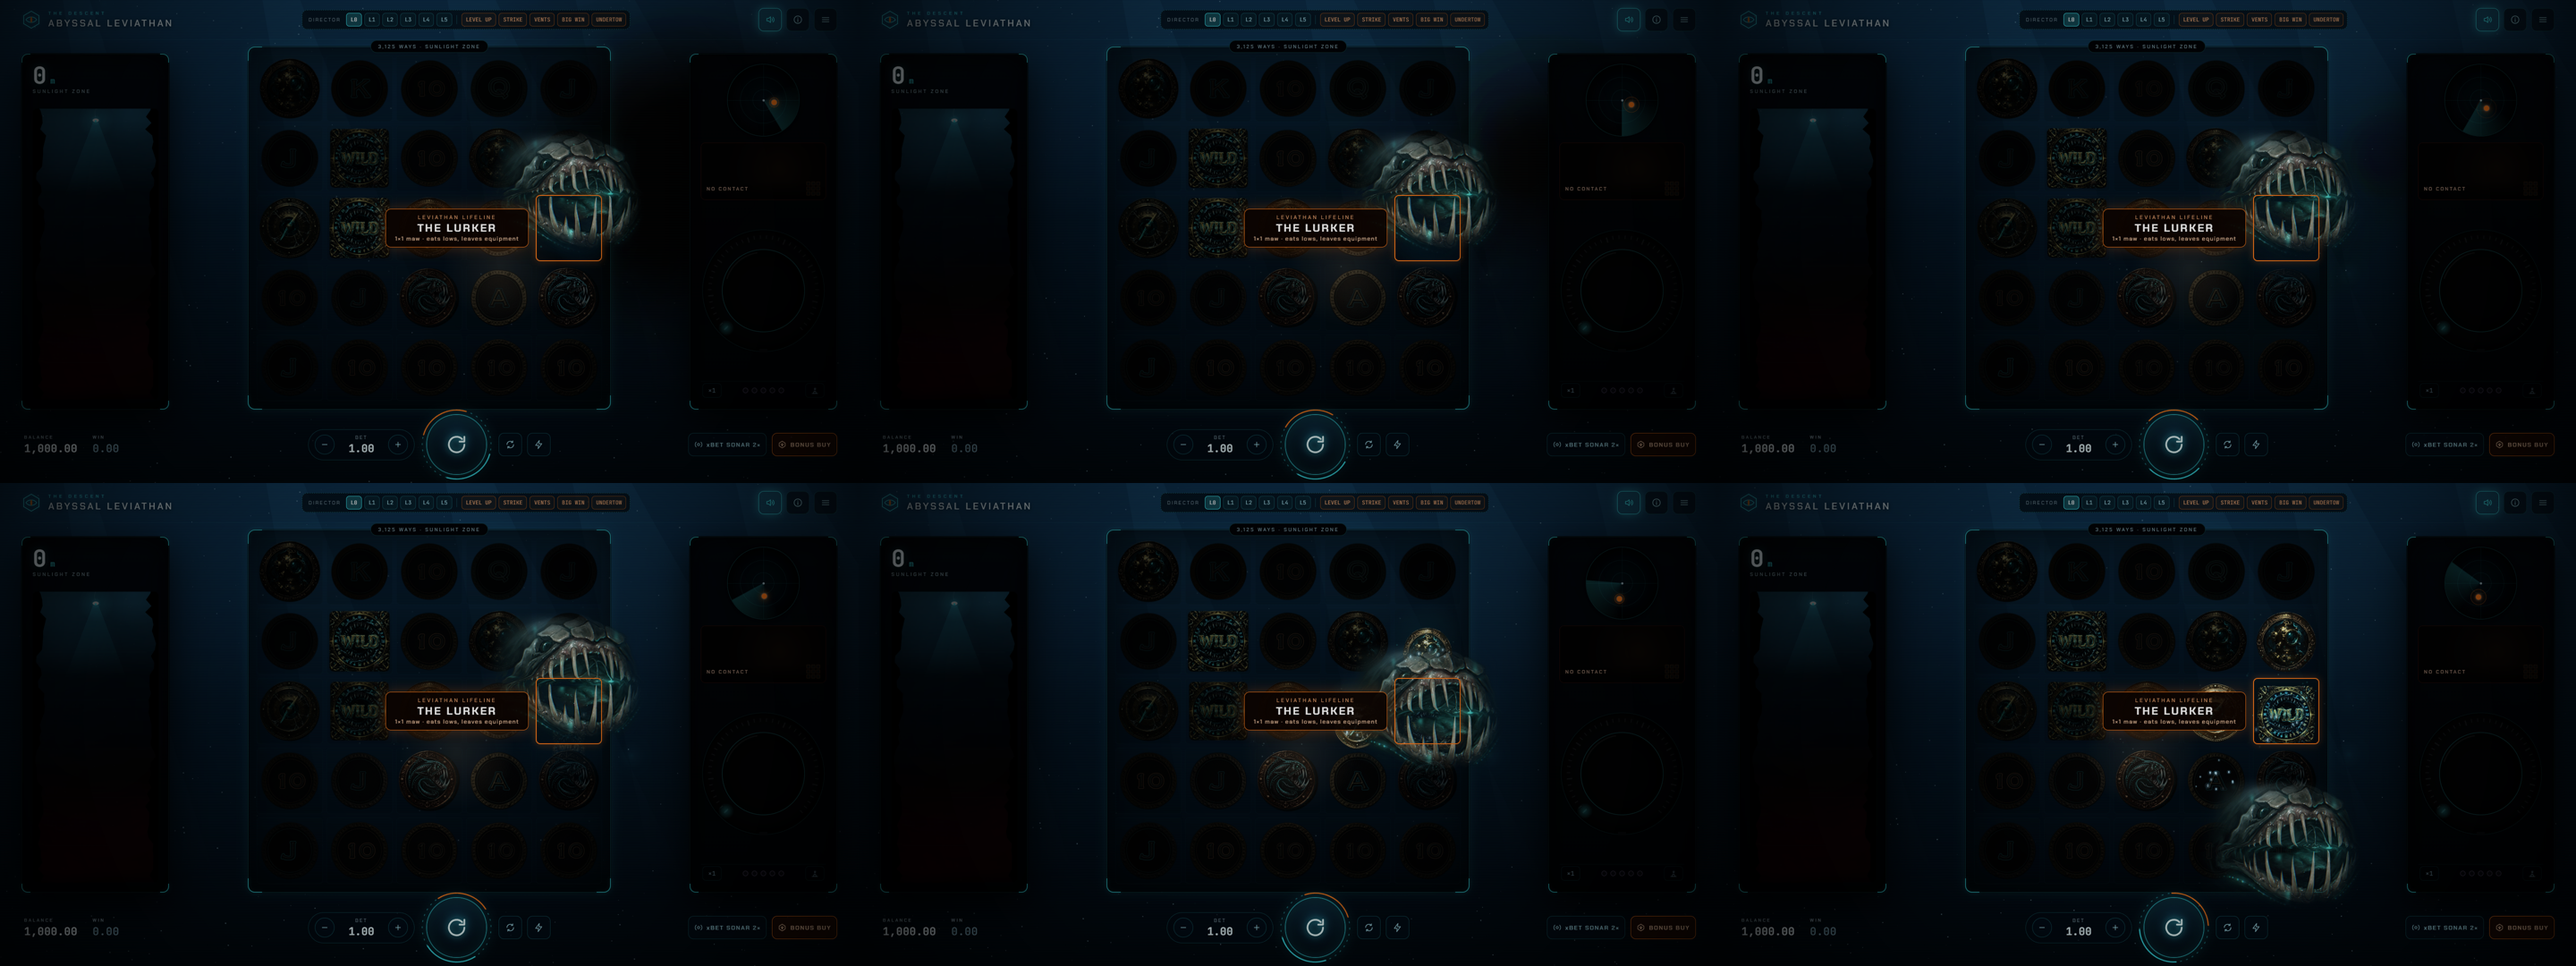
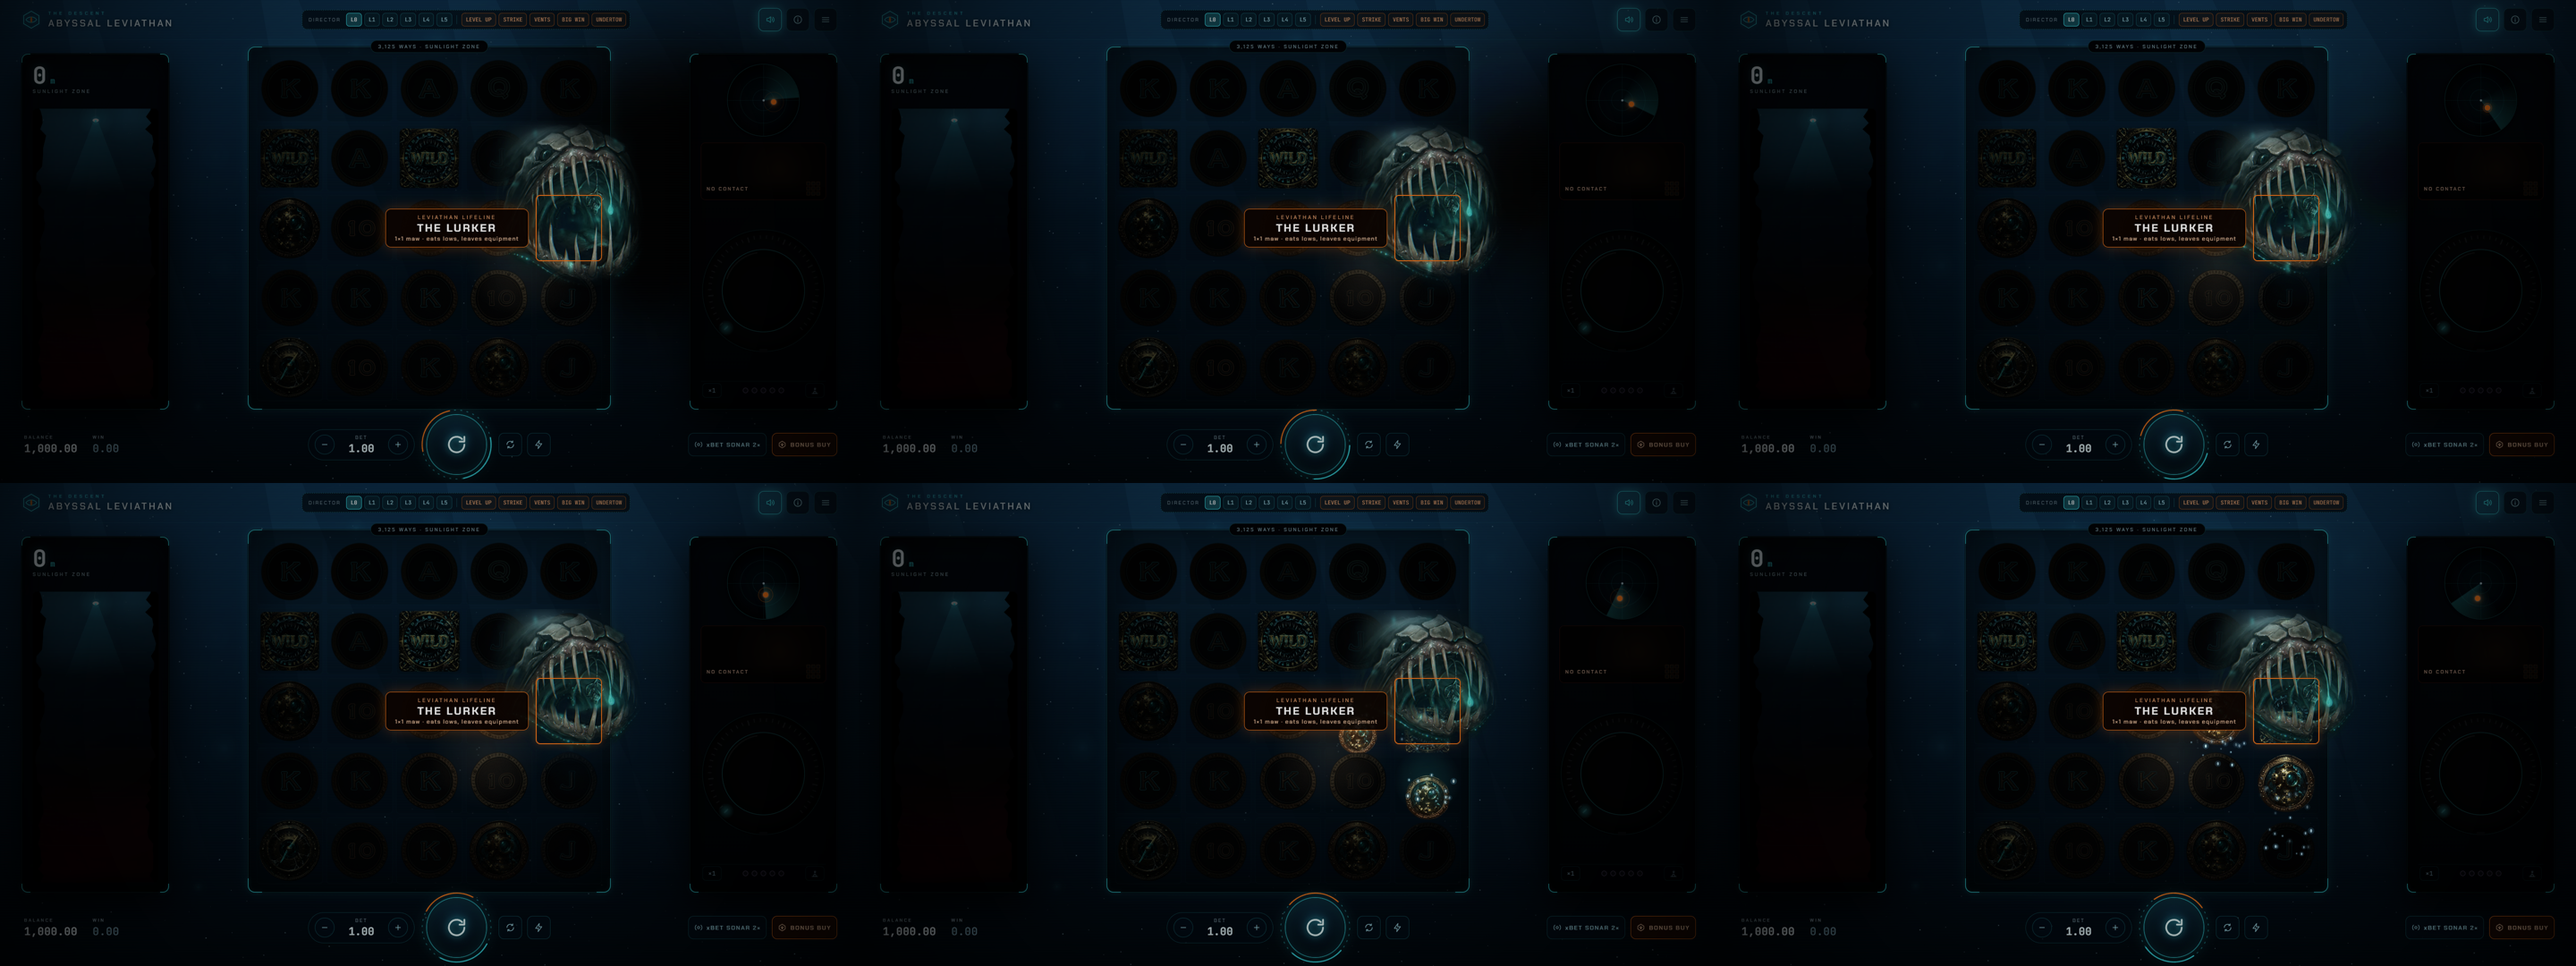
Flipbook mode for the hero layer: the chomp plays a frame sheet when one exists
hero.js samples a WebP sprite sheet (uSheet remap) from the chomp at its fps,
holds the last frame through the hit-stop, then drops as before; the mask slam
stays the fallback (?flipbook=0). flipbook_pack.py packs frames (<= 4096 px,
WebP) and registers them in hero.json; --synthetic proves the path with frames
slid from the cut-out. interp_frames.py interpolates between two paintings
with RIFE once the package is installed.

diff --git a/slot_engine/static/canvas/hero.js b/slot_engine/static/canvas/hero.js
@@ -29,6 +29,9 @@
     'uniform vec4 uJaw;',                                 // hinge y, feather, upper dy (down), lower dy (up)
     'uniform vec3 uRot; uniform vec3 uNod; uniform vec4 uThroat; uniform float uFlash;',
     'uniform vec4 uShadow; uniform float uShadowA; uniform float uRipple; uniform float uBg;',
+    'uniform vec4 uSheet;',                               // flipbook: cols, rows, frame index, on (0/1); frames in reading order from the top
+    'vec2 fbUv(vec2 u) { if (uSheet.w < 0.5) return u; float i = uSheet.z; float col = mod(i, uSheet.x); float row = floor(i / uSheet.x);',
+    '  return vec2((u.x + col) / uSheet.x, (u.y + (uSheet.y - 1.0 - row)) / uSheet.y); }',
     'float ss(float a, float b, float x) { float t = clamp((x - a) / (b - a), 0.0, 1.0); return t * t * (3.0 - 2.0 * t); }',
     'float h2(vec2 p) { return fract(sin(dot(p, vec2(127.1, 311.7))) * 43758.5453); }',
     'float n2(vec2 p) { vec2 i = floor(p), f = fract(p); f = f * f * (3.0 - 2.0 * f);',
@@ -80,9 +83,9 @@
     '    float d = texture2D(tD, uv).r;',
     '    vec2 sway = vec2(sin(uT * 0.7 + uv.y * 5.0), cos(uT * 0.5 + uv.x * 4.0)) * 0.0025 * (1.0 - d);',
     '    vec2 u2 = uv + uPar * (d - 0.5) * 0.05 + sway;',
-    '    vec4 c = texture2D(tC, u2);',
+    '    vec4 c = texture2D(tC, fbUv(u2));',
     '    float ca = uChrom * 0.0045 * (1.0 - d) * (0.3 + 0.7 * length(v - 0.5));',
-    '    c.r = texture2D(tC, u2 + vec2(ca, 0.0)).r; c.b = texture2D(tC, u2 - vec2(ca, 0.0)).b;',
+    '    c.r = texture2D(tC, fbUv(u2 + vec2(ca, 0.0))).r; c.b = texture2D(tC, fbUv(u2 - vec2(ca, 0.0))).b;',
     '    vec3 col = c.rgb;',
     // nodule pulse: the bioluminescent dots are the pixels with blue well over red
     '    if (uNod.x > 0.0) { float nm = smoothstep(1.3, 1.6, c.b / max(c.r, 0.02)) * smoothstep(0.3, 0.5, c.b);',
@@ -118,7 +121,7 @@
     '  gl_FragColor = pc + ov * (1.0 - pc.a);',
     '}'
   ].join('\n');
-  const UNI = ['tC', 'tD', 'uRes', 'uRect', 'uPar', 'uT', 'uA', 'uFog', 'uFogBot', 'uTint', 'uFogCol', 'uScale', 'uPivot', 'uChrom', 'uDark', 'uFeath', 'uCont',
+  const UNI = ['uSheet', 'tC', 'tD', 'uRes', 'uRect', 'uPar', 'uT', 'uA', 'uFog', 'uFogBot', 'uTint', 'uFogCol', 'uScale', 'uPivot', 'uChrom', 'uDark', 'uFeath', 'uCont',
     'uIris', 'uIrisOff', 'uPupil', 'uLid', 'uLidSkin', 'uLidCol', 'uJaw', 'uRot', 'uNod', 'uThroat', 'uFlash', 'uShadow', 'uShadowA', 'uRipple', 'uBg'];
 
   // measured feature anchors, in painting image coordinates (x right, y DOWN, 0..1); flipped to GL (y up) when uploaded.
@@ -232,6 +235,10 @@
         const m = H.manifest[id];
         const [c, d] = await Promise.all([loadTex(H.base + m.file + '?v=' + Date.now()), loadTex(H.base + m.depth + '?v=' + Date.now())]);
         if (c && d) H.tex[id] = { c, d, w: c.w, h: c.h, source: m.source };
+        if (c && d && m.sheet) {
+          const sh = await loadTex(H.base + m.sheet.file + '?v=' + Date.now());
+          if (sh) H.tex[id].sheet = Object.assign({ t: sh.t }, m.sheet);
+        }
       }
       H.loaded = Object.keys(H.tex);
     };
@@ -342,6 +349,15 @@
       if (!S || S.id !== 'lev_jaws' || S.chompT != null) return false;
       S.chompT = H.now() - S.t0;
       S.zoomMs = Math.min(S.zoomMs, S.chompT);
+      const sh = H.tex[S.id] && H.tex[S.id].sheet;
+      if (sh && !H.rm && !/[?&]flipbook=0(&|$)/.test(root.location.search)) {
+        // real frames: play the sheet from the chomp at its fps, hold the last frame through the hit-stop + overshoot, then drop
+        S.fb = { t0: S.chompT, fps: sh.fps || 24, count: sh.count, cols: sh.cols, rows: sh.rows };
+        const playMs = (sh.count - 1) / (sh.fps || 24) * 1000;
+        S.flash = 0; S.dropT = S.chompT + playMs + S.hitStopMs + 120; S.dropMs = 450; S.dur = Math.min(S.dur, S.dropT + S.dropMs); S.exit.alphaMs = 0;
+        if (game.flog) game.flog('heroFlipbook', { id: S.id, frames: sh.count, fps: sh.fps, playMs: Math.round(playMs) });
+        return true;
+      }
       if (!H.rm) { S.flash = 1; S.dropT = S.chompT + 70 + S.hitStopMs + 120; S.dropMs = 450; S.dur = Math.min(S.dur, S.dropT + S.dropMs); S.exit.alphaMs = 0; }
       if (game.flog) game.flog('heroChomp', { id: S.id, el: Math.round(S.chompT), dropAt: S.dropT == null ? null : Math.round(S.dropT) });
       return true;
@@ -443,6 +459,7 @@
           S.flash = b < 60 ? 1 - b / 60 : 0;
         }
         jaw = [1 - R.hinge, R.hingeFeather, up, lo];
+        if (S.fb) { const fi = Math.min(S.fb.count - 1, Math.max(0, Math.floor((el - S.fb.t0) / 1000 * S.fb.fps))); S.fbIndex = fi; jaw = [1 - R.hinge, R.hingeFeather, 0, 0]; S.flash = 0; }
         // the drop: the whole painting falls off the bottom of the stage (ease-in-cubic)
         if (S.dropT != null && el >= S.dropT) {
           if (!S.dropped) { S.dropped = true; if (game.flog) game.flog('heroDrop', { id: S.id, el: Math.round(el), ms: S.dropMs }); }
@@ -487,7 +504,9 @@
       gl.clear(gl.COLOR_BUFFER_BIT);
       gl.useProgram(H.prog);
       const T = H.tex[S.id], L = H.loc;
-      gl.activeTexture(gl.TEXTURE0); gl.bindTexture(gl.TEXTURE_2D, T.c.t); gl.uniform1i(L.tC, 0);
+      const fbOn = !!(S.fb && T.sheet);
+      gl.activeTexture(gl.TEXTURE0); gl.bindTexture(gl.TEXTURE_2D, fbOn ? T.sheet.t : T.c.t); gl.uniform1i(L.tC, 0);
+      gl.uniform4f(L.uSheet, fbOn ? T.sheet.cols : 1, fbOn ? T.sheet.rows : 1, fbOn ? S.fbIndex || 0 : 0, fbOn ? 1 : 0);
       gl.activeTexture(gl.TEXTURE1); gl.bindTexture(gl.TEXTURE_2D, T.d.t); gl.uniform1i(L.tD, 1);
       gl.uniform2f(L.uRes, c.width, c.height);
       // rect in GL space (origin bottom-left)

diff --git a/scripts/ai/flipbook_pack.py b/scripts/ai/flipbook_pack.py
@@ -1,0 +1,98 @@
+"""
+flipbook_pack.py - pack a folder of RGBA frames into one sprite sheet for the hero layer (hero.js flipbook mode).
+
+    python scripts/ai/flipbook_pack.py --id lev_jaws --frames generated/flipbook/lev_jaws_chomp --fps 24
+    python scripts/ai/flipbook_pack.py --id lev_jaws --synthetic 12 --fps 24     # dry run: frames made from the cut-out itself
+
+Writes slot_engine/static/canvas/assets/hero/<id>_sheet.webp (grid, max 4096 px on a side; frames are scaled down to fit)
+and adds {"sheet": {"file", "cols", "rows", "count", "fps", "fw", "fh"}} to that id in assets/hero/hero.json. The first
+frame must be the painting's own pose (the shader keeps the painting's depth map and rig anchors for every frame).
+
+--synthetic N: builds N frames from <id>.png by sliding the lower jaw (below the rig hinge, feathered) up to 0.16 h and the
+upper jaw down 0.05 h, i.e. the same motion the shader mask does today, so the playback path can be proven before real
+interpolated frames exist.
+"""
+
+import argparse
+import json
+import math
+import sys
+from pathlib import Path
+
+import numpy as np
+from PIL import Image
+
+REPO = Path(__file__).resolve().parents[2]
+OUT = REPO / "slot_engine" / "static" / "canvas" / "assets" / "hero"
+MAX_SIDE = 4096
+HINGE = {"lev_jaws": 0.58}   # image-space y of the mouth midline (matches hero.js RIG)
+
+
+def synthetic(jid: str, n: int):
+    src = Image.open(OUT / f"{jid}.png").convert("RGBA")
+    a = np.asarray(src, dtype=np.float32)
+    h, w = a.shape[:2]
+    hinge = HINGE.get(jid, 0.58)
+    yy = np.arange(h)[:, None] / h
+    lower = np.clip((yy - (hinge - 0.035)) / 0.07, 0, 1)      # 1 below the hinge, 0 above, feathered
+    frames = []
+    for i in range(n):
+        k = i / max(1, n - 1)
+        k = k * k * (3 - 2 * k)
+        dy_lo, dy_up = int(round(0.16 * h * k)), int(round(0.05 * h * k))
+        lo = np.roll(a, -dy_lo, axis=0); lo[h - dy_lo:] = 0
+        up = np.roll(a, dy_up, axis=0); up[:dy_up] = 0
+        m = np.broadcast_to(lower, (h, w))[..., None]
+        f = lo * m + up * (1 - m)
+        frames.append(Image.fromarray(f.astype(np.uint8), "RGBA"))
+    return frames
+
+
+def pack(jid: str, frames, fps: int):
+    n = len(frames)
+    fw, fh = frames[0].size
+    cols = math.ceil(math.sqrt(n * fh / fw)) if fw < fh else math.ceil(math.sqrt(n))
+    cols = max(1, min(n, cols))
+    rows = math.ceil(n / cols)
+    scale = min(1.0, MAX_SIDE / (cols * fw), MAX_SIDE / (rows * fh))
+    cw, ch = int(fw * scale), int(fh * scale)
+    sheet = Image.new("RGBA", (cw * cols, ch * rows), (0, 0, 0, 0))
+    for i, f in enumerate(frames):
+        if scale < 1:
+            f = f.resize((cw, ch), Image.LANCZOS)
+        sheet.paste(f, ((i % cols) * cw, (i // cols) * ch))
+    # WebP keeps the alpha and is ~10x smaller than PNG for painted frames (every browser the game targets decodes it)
+    fname = f"{jid}_sheet.webp"
+    sheet.save(OUT / fname, format="WEBP", quality=86, method=6)
+    man_p = OUT / "hero.json"
+    man = json.loads(man_p.read_text(encoding="utf-8"))
+    man.setdefault(jid, {})["sheet"] = {"file": fname, "cols": cols, "rows": rows, "count": n, "fps": fps, "fw": cw, "fh": ch}
+    man_p.write_text(json.dumps(man, indent=2), encoding="utf-8")
+    print(f"[flipbook] {jid}: {n} frames {cw}x{ch} in a {cols}x{rows} sheet ({sheet.width}x{sheet.height}, "
+          f"{(OUT / fname).stat().st_size / 1e6:.2f} MB) at {fps} fps -> hero.json")
+
+
+def main() -> int:
+    ap = argparse.ArgumentParser()
+    ap.add_argument("--id", required=True)
+    ap.add_argument("--frames", help="folder of RGBA PNG frames in name order")
+    ap.add_argument("--synthetic", type=int, default=0)
+    ap.add_argument("--fps", type=int, default=24)
+    a = ap.parse_args()
+    if a.synthetic:
+        frames = synthetic(a.id, a.synthetic)
+    elif a.frames:
+        files = sorted(Path(a.frames).glob("*.png"))
+        if not files:
+            sys.exit(f"no frames in {a.frames}")
+        frames = [Image.open(f).convert("RGBA") for f in files]
+        base = Image.open(OUT / f"{a.id}.png")
+        frames = [f if f.size == base.size else f.resize(base.size, Image.LANCZOS) for f in frames]
+    else:
+        sys.exit("give --frames <dir> or --synthetic N")
+    pack(a.id, frames, a.fps)
+    return 0
+
+
+if __name__ == "__main__":
+    sys.exit(main())

diff --git a/scripts/ai/interp_frames.py b/scripts/ai/interp_frames.py
@@ -1,0 +1,62 @@
+"""
+interp_frames.py - interpolate N frames between two cut-out paintings (RGBA on transparent) with RIFE, locally on the GPU.
+
+    python scripts/ai/interp_frames.py A.png B.png --n 12 --out generated/flipbook/lev_jaws_chomp
+
+Needs the free RIFE package (Vulkan build, runs on the NVIDIA card):  python -m pip install rife-ncnn-vulkan-python
+RGB is interpolated over black (the paintings are lit on black anyway); alpha is interpolated as a grey image with the
+same model so the silhouette moves with the colour. Output: 000.png (= A) ... NNN.png (= B), same size as A.
+"""
+
+import argparse
+import sys
+from pathlib import Path
+
+import numpy as np
+from PIL import Image
+
+
+def main() -> int:
+    ap = argparse.ArgumentParser()
+    ap.add_argument("a")
+    ap.add_argument("b")
+    ap.add_argument("--n", type=int, default=12, help="frames between A and B (output has n + 2 frames)")
+    ap.add_argument("--out", required=True)
+    args = ap.parse_args()
+    try:
+        from rife_ncnn_vulkan_python import Rife
+    except ImportError:
+        sys.exit("RIFE is not installed. Run:  python -m pip install rife-ncnn-vulkan-python")
+    A = Image.open(args.a).convert("RGBA")
+    B = Image.open(args.b).convert("RGBA").resize(A.size, Image.LANCZOS)
+    out = Path(args.out)
+    out.mkdir(parents=True, exist_ok=True)
+    rife = Rife(gpuid=0, model="rife-v4.6")
+
+    def rgb_on_black(im):
+        arr = np.asarray(im, dtype=np.float32)
+        rgb = arr[..., :3] * (arr[..., 3:] / 255)
+        return Image.fromarray(rgb.astype(np.uint8), "RGB")
+
+    def alpha_as_rgb(im):
+        a = np.asarray(im.getchannel("A"))
+        return Image.fromarray(np.stack([a, a, a], -1), "RGB")
+
+    A_rgb, B_rgb, A_a, B_a = rgb_on_black(A), rgb_on_black(B), alpha_as_rgb(A), alpha_as_rgb(B)
+    frames = [A]
+    for i in range(1, args.n + 1):
+        t = i / (args.n + 1)
+        rgb = np.asarray(rife.process(A_rgb, B_rgb, timestep=t), dtype=np.float32)
+        al = np.asarray(rife.process(A_a, B_a, timestep=t), dtype=np.float32)[..., 0]
+        safe = np.maximum(al, 1)[..., None]
+        un = np.clip(rgb / safe * 255, 0, 255)
+        frames.append(Image.fromarray(np.dstack([un, al]).astype(np.uint8), "RGBA"))
+    frames.append(B)
+    for i, f in enumerate(frames):
+        f.save(out / f"{i:03d}.png")
+    print(f"[interp] {len(frames)} frames -> {out}")
+    return 0
+
+
+if __name__ == "__main__":
+    sys.exit(main())
